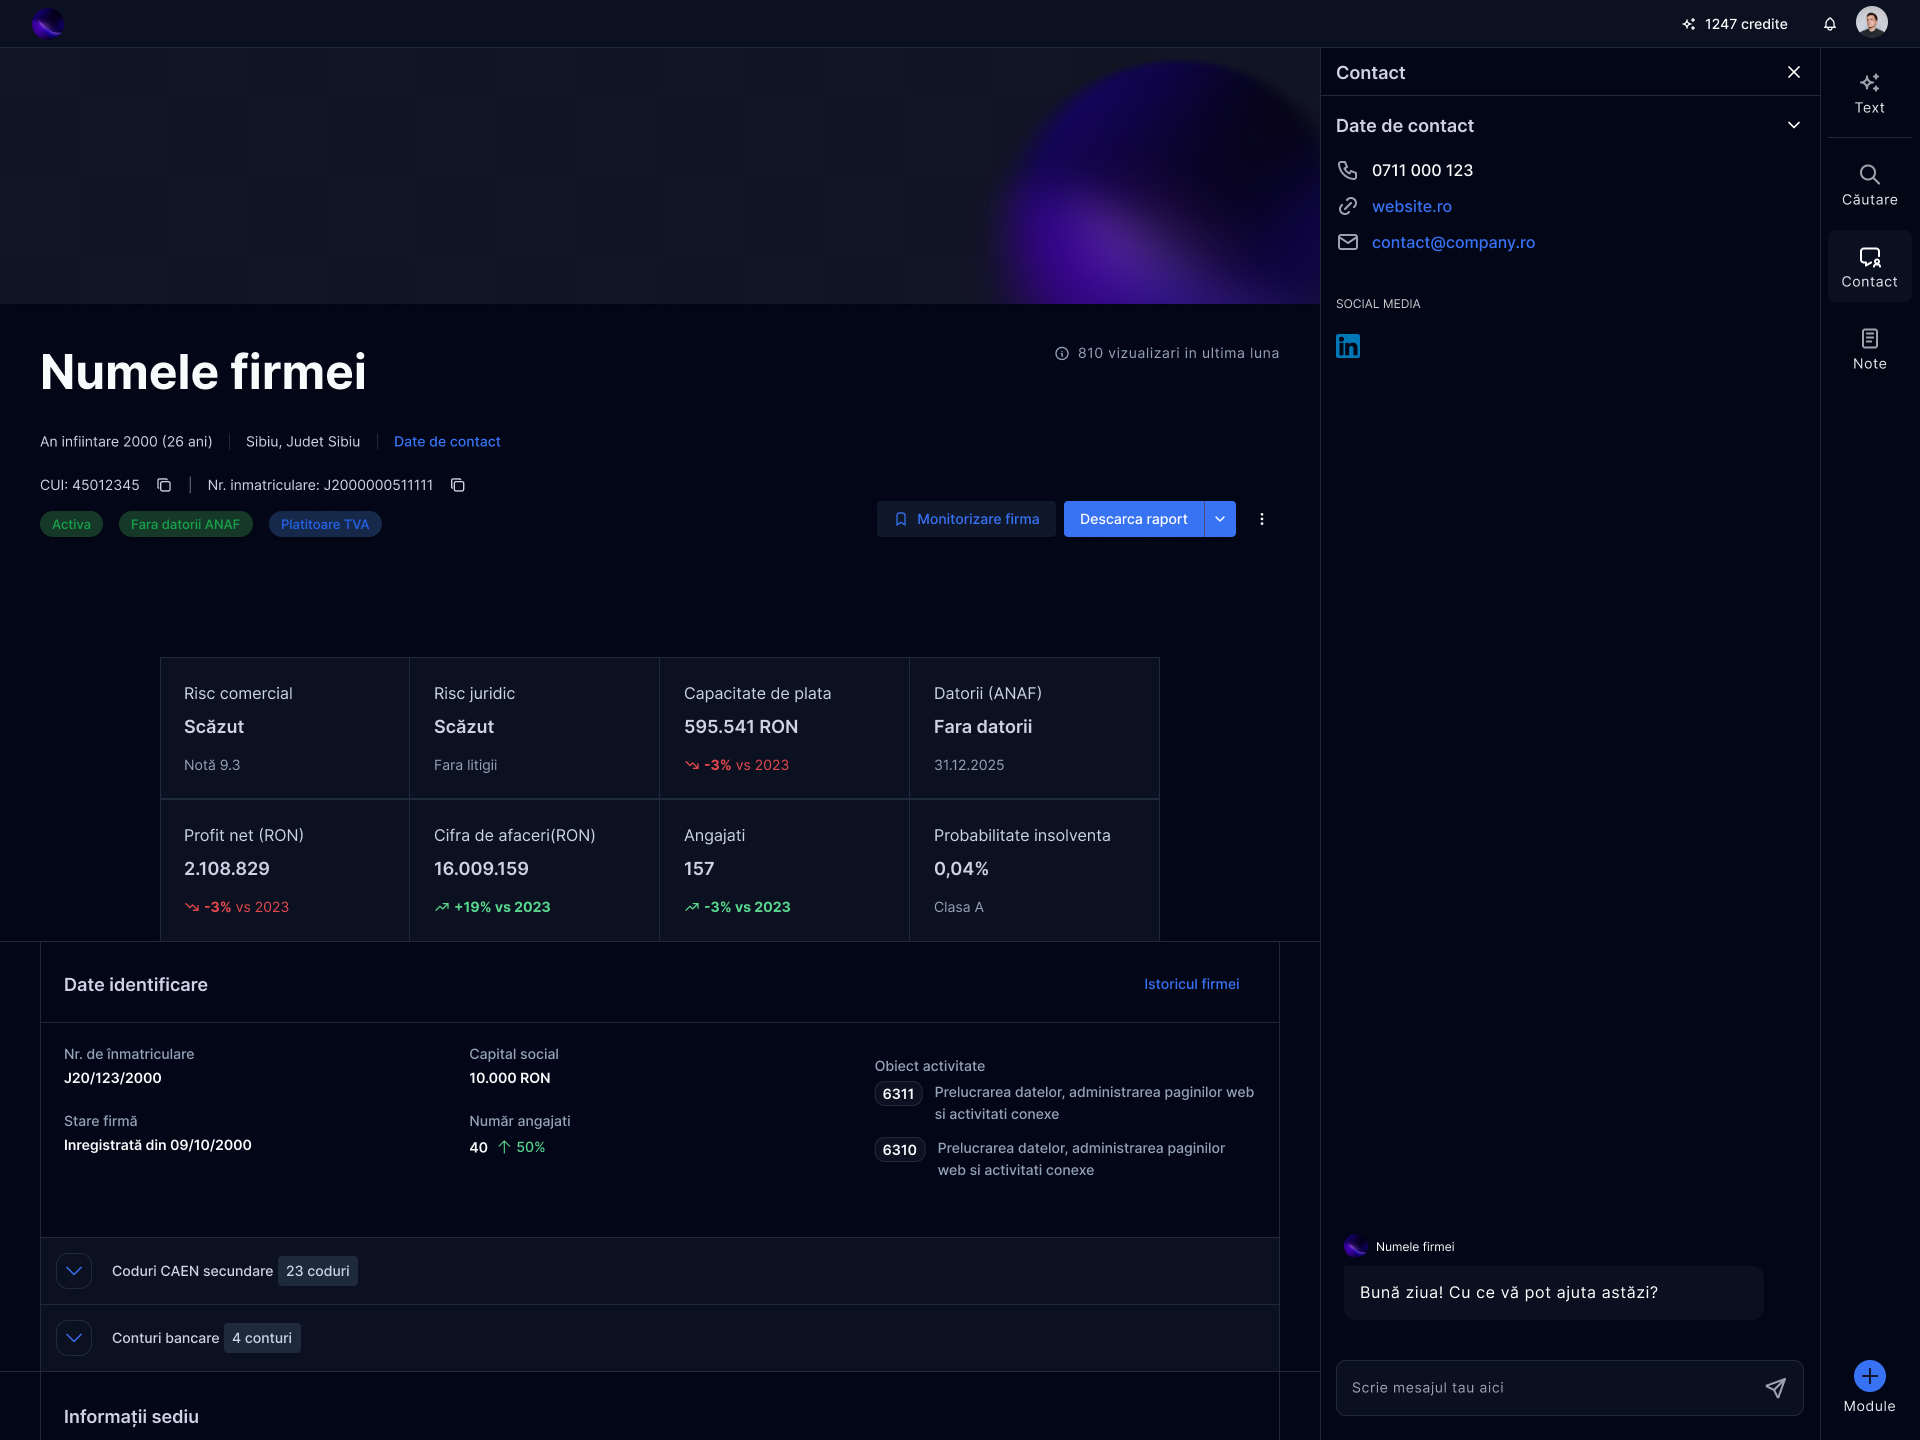
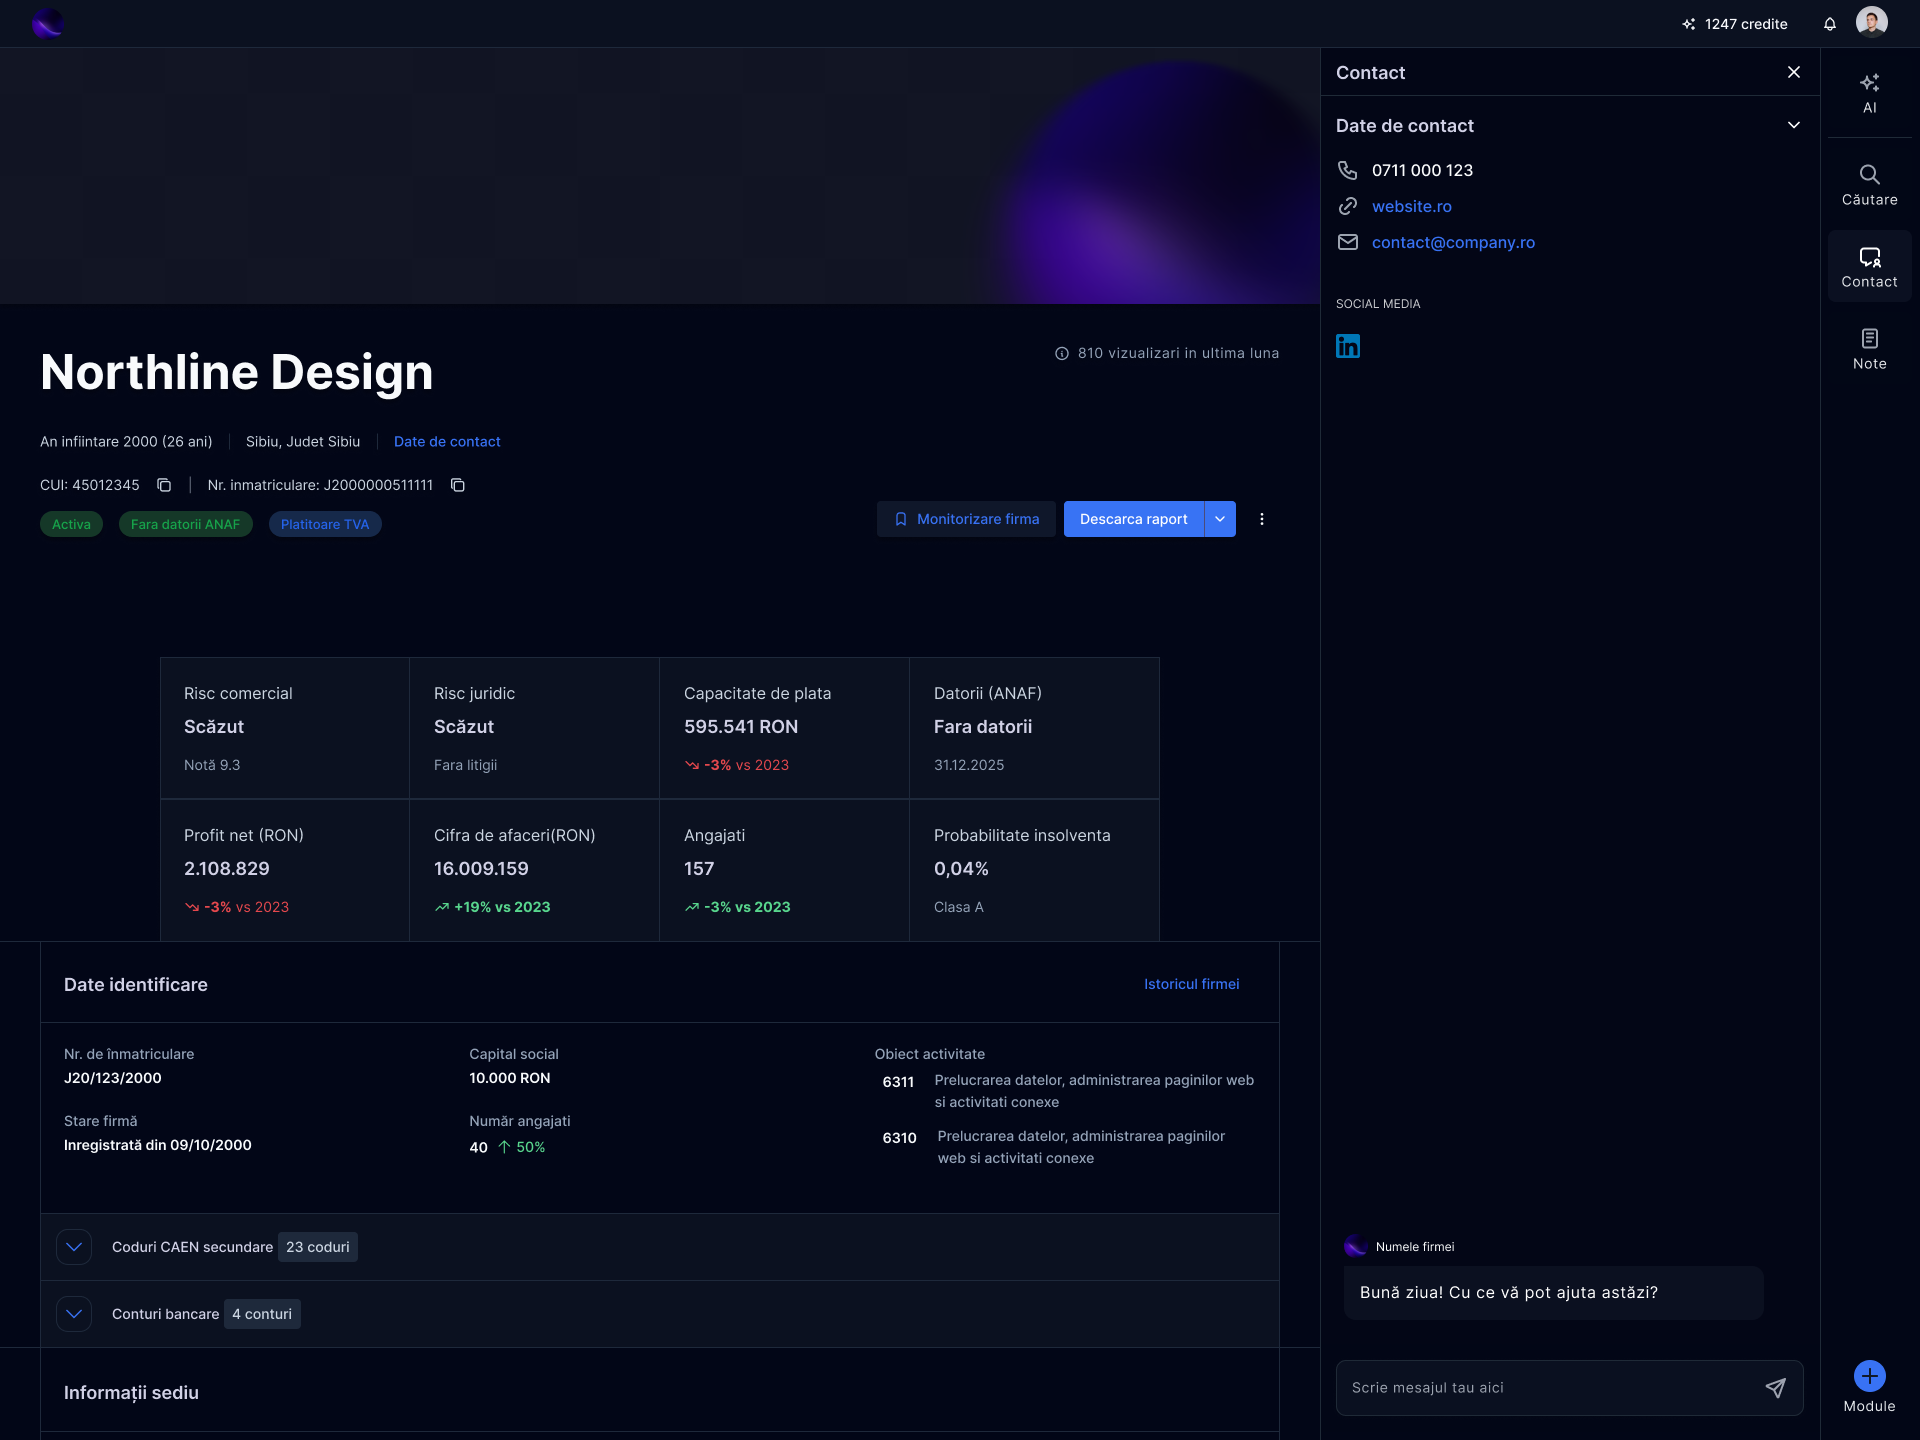
Updates to images

Changed region(s): [[0.0312, 0.8438, 0.1875, 1.0], [0.4375, 0.7188, 0.6562, 0.8125], [0.0312, 0.25, 0.2188, 0.2812]]

diff --git a/src/content.ts b/src/content.ts
@@ -63,7 +63,7 @@ export const content = {
         slug: "platform-redesign",
         category: "SaaS",
         description:
-          "Redesigned the structure of a complex platform to reduce time-to-insight by 40%.",
+          "Structural improvements to a complex SaaSplatform to reduce time-to-insight by 40%.",
         image: "/work/company_page.png",
         problem: [
           "Users were unable to locate the metrics that mattered to them.",